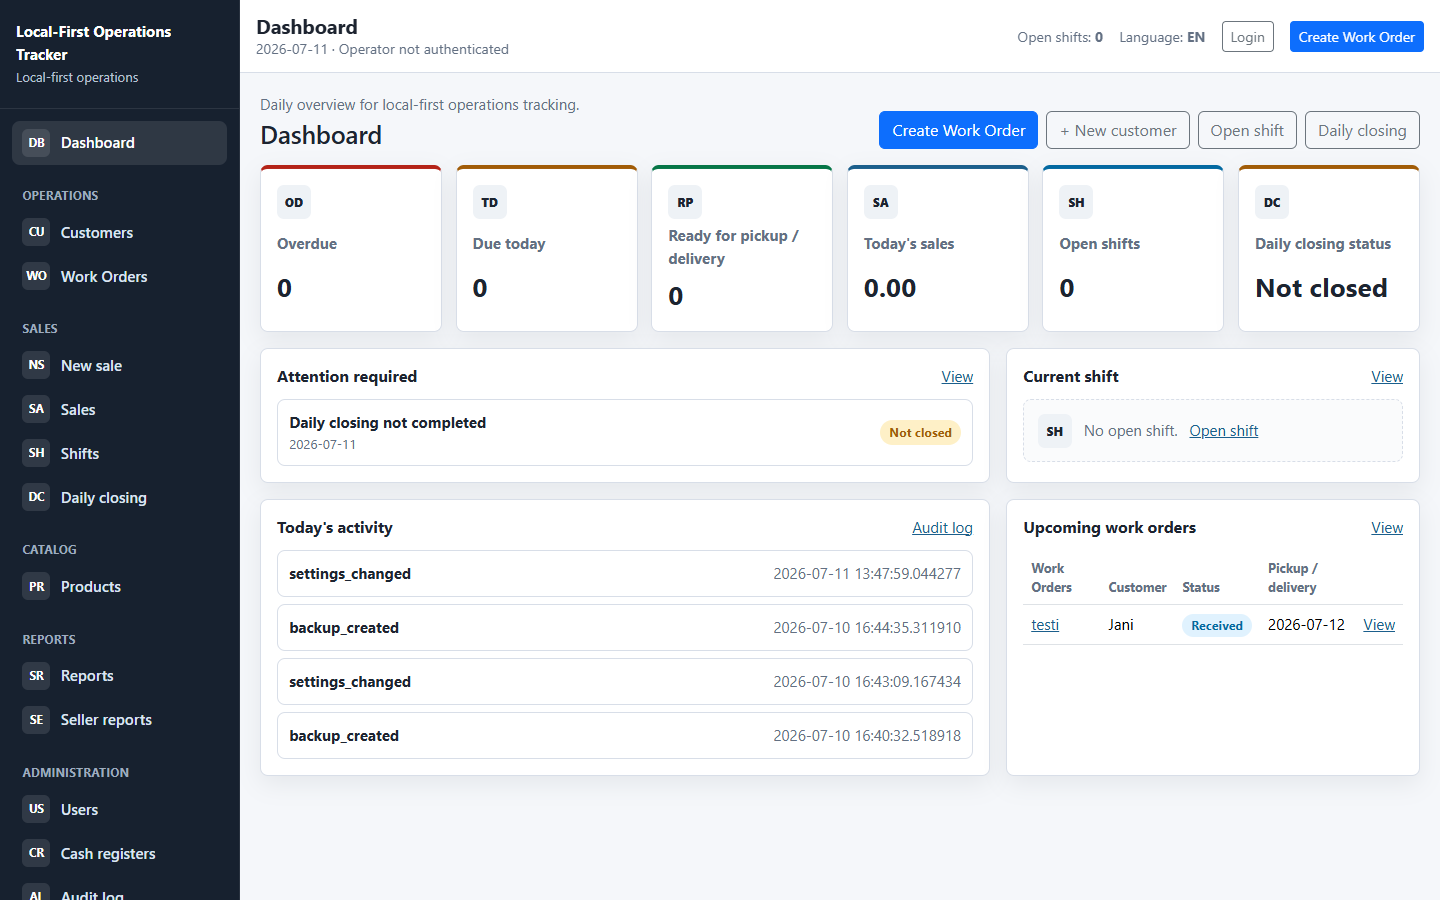
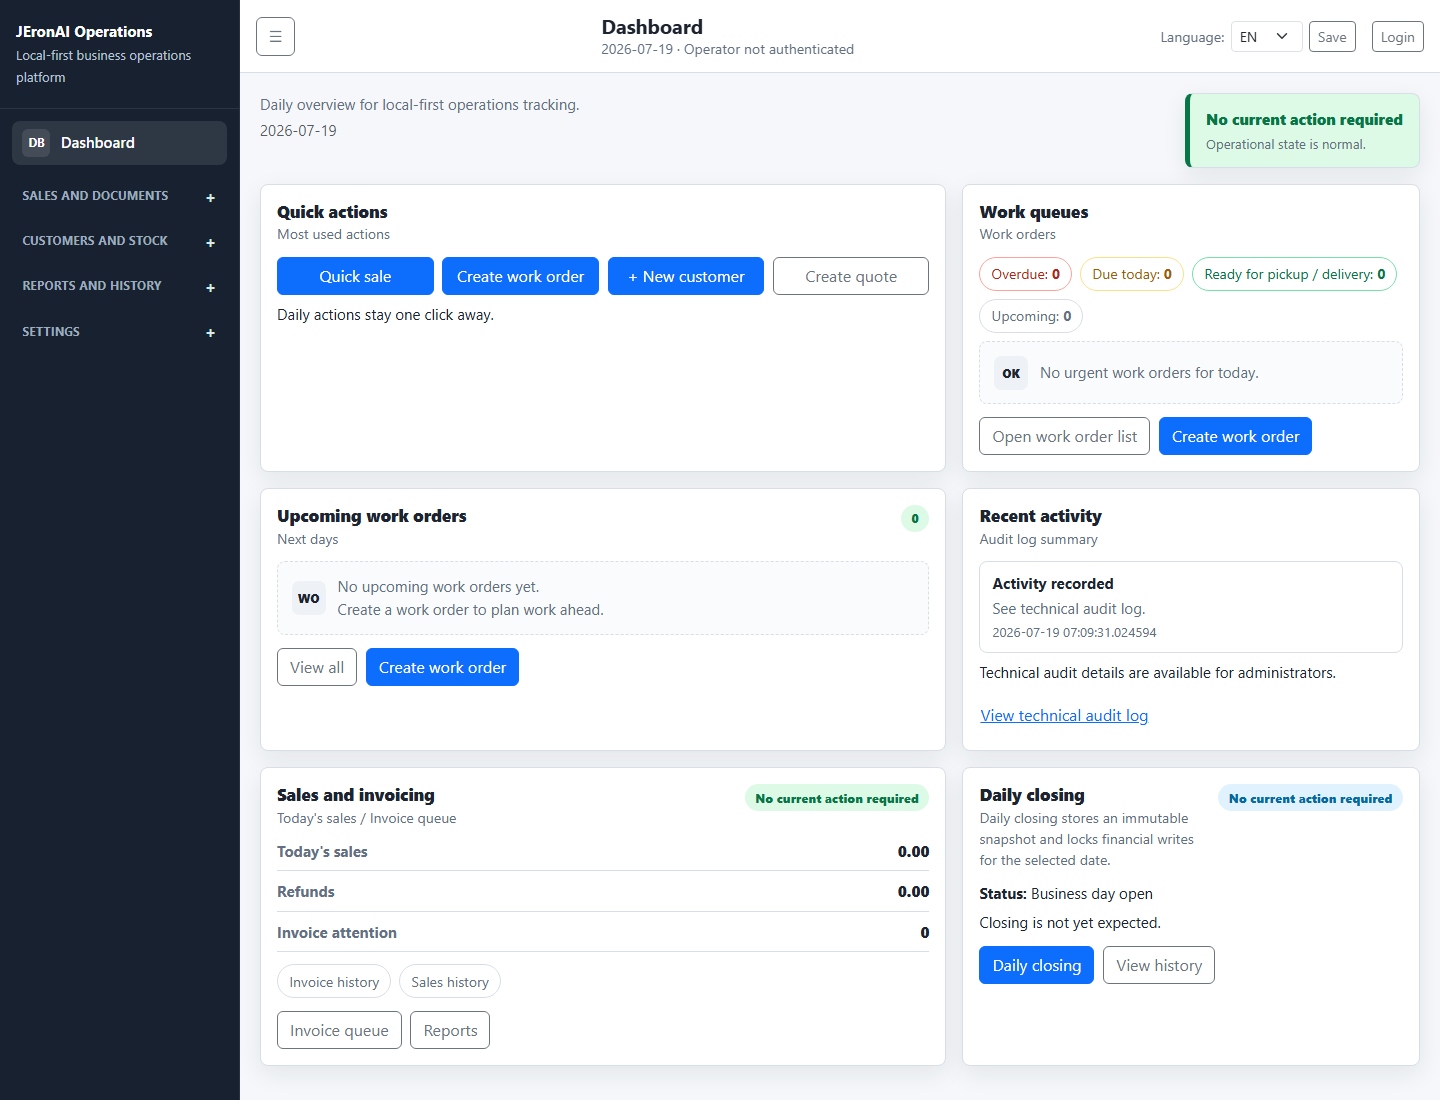
Update dashboard documentation screenshots

diff --git a/docs/UI/Screenshots.md b/docs/UI/Screenshots.md
@@ -1,18 +1,18 @@
 # UI Screenshots
 
-Current dashboard screenshots for reviewing the browser and mobile layouts.
+Current JEronAI Operations screenshots for reviewing the browser and mobile layouts.
 
-These screenshots are included so the project is easier to understand from GitHub without running the application locally. They show the current MVP dashboard after the navigation, live-search, responsive-table, and dashboard layout work.
+These screenshots are included so the project is easier to understand from GitHub without running the application locally. They show the current Dashboard v2 layout and the unified product and inventory workspace.
 
 ## Browser Dashboard
 
-The browser layout uses a persistent left navigation and a dense operations dashboard. The first row summarizes urgent work, today's work, ready work, today's sales, open shifts, and daily closing state. The lower panels show work needing attention, current shift status, recent activity, and upcoming work.
+The browser layout uses a persistent left navigation with collapsible sections and a dense operations dashboard. The dashboard prioritizes quick actions, work queues, upcoming work orders, recent activity, sales and invoicing, and daily closing state.
 
 ![Browser dashboard](screenshots/dashboard-desktop.png)
 
 ## Mobile Dashboard
 
-The mobile layout keeps the same operational information but stacks actions, KPI cards, and panels into a single readable column for phone use over LAN or Tailscale.
+The mobile layout keeps the same operational information but stacks actions and dashboard panels into a single readable column for phone use over LAN or Tailscale.
 
 ![Mobile dashboard](screenshots/dashboard-mobile.png)
 

diff --git a/README.md b/README.md
@@ -14,7 +14,7 @@ The goal is not to imitate a heavyweight enterprise suite or a polished SaaS lan
 
 ## UI Preview
 
-The current dashboard is designed as an operations view rather than a marketing page. It shows daily work order pressure, shift status, daily closing state, recent activity, and upcoming work in one browser screen.
+The current dashboard is designed as an operations view rather than a marketing page. It prioritizes quick actions, work queues, upcoming work orders, recent activity, sales and invoicing, and daily closing status in one browser screen.
 
 More UI screenshots are available in [`docs/UI/Screenshots.md`](docs/UI/Screenshots.md).
 